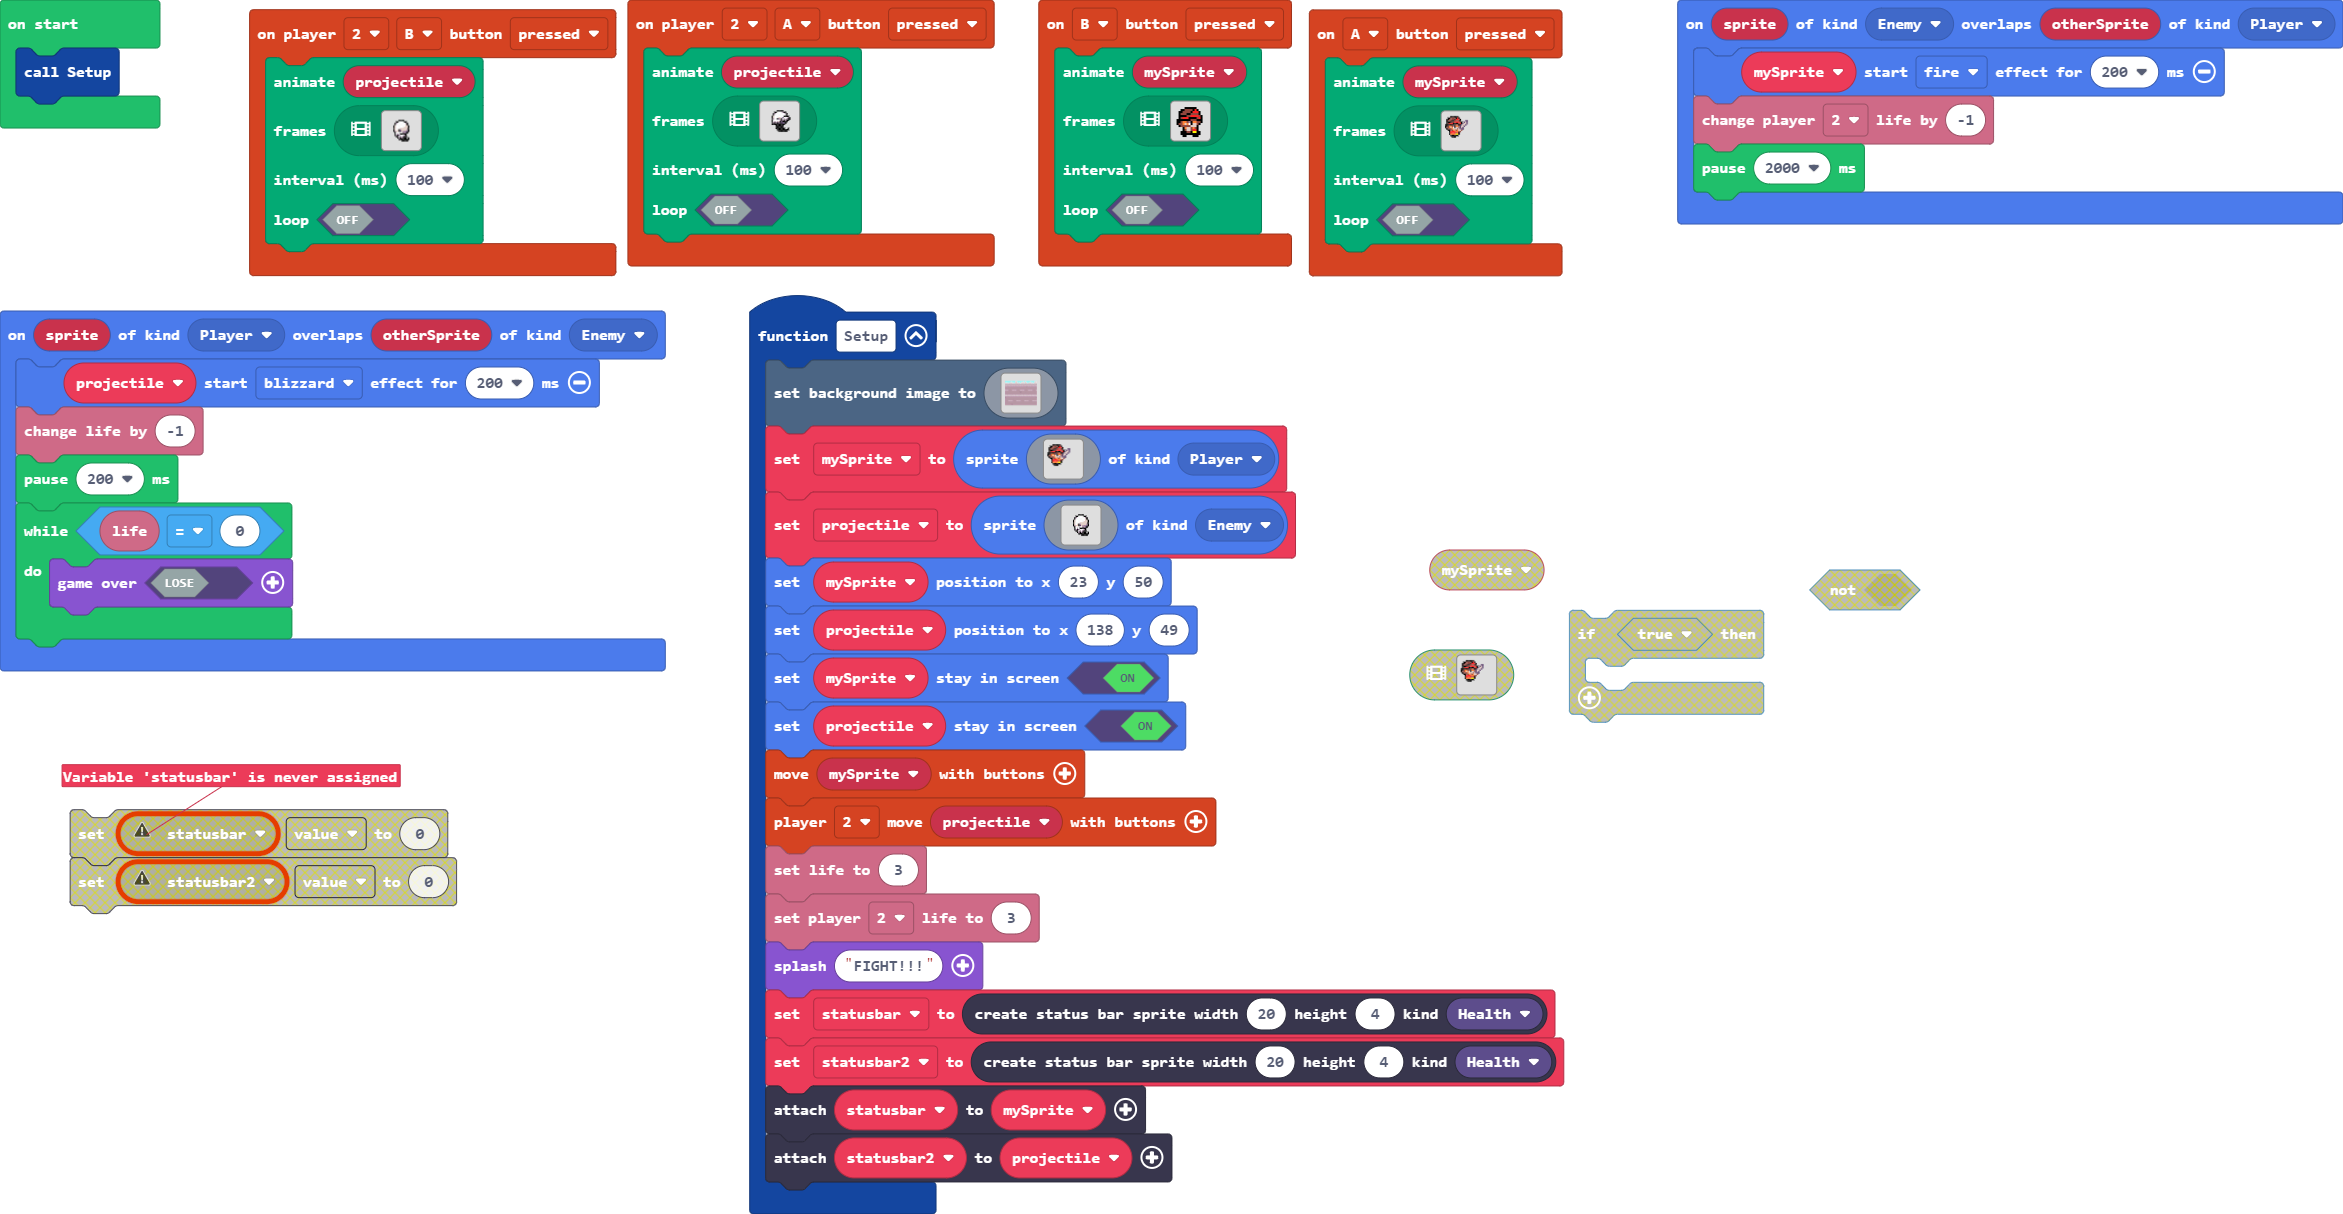
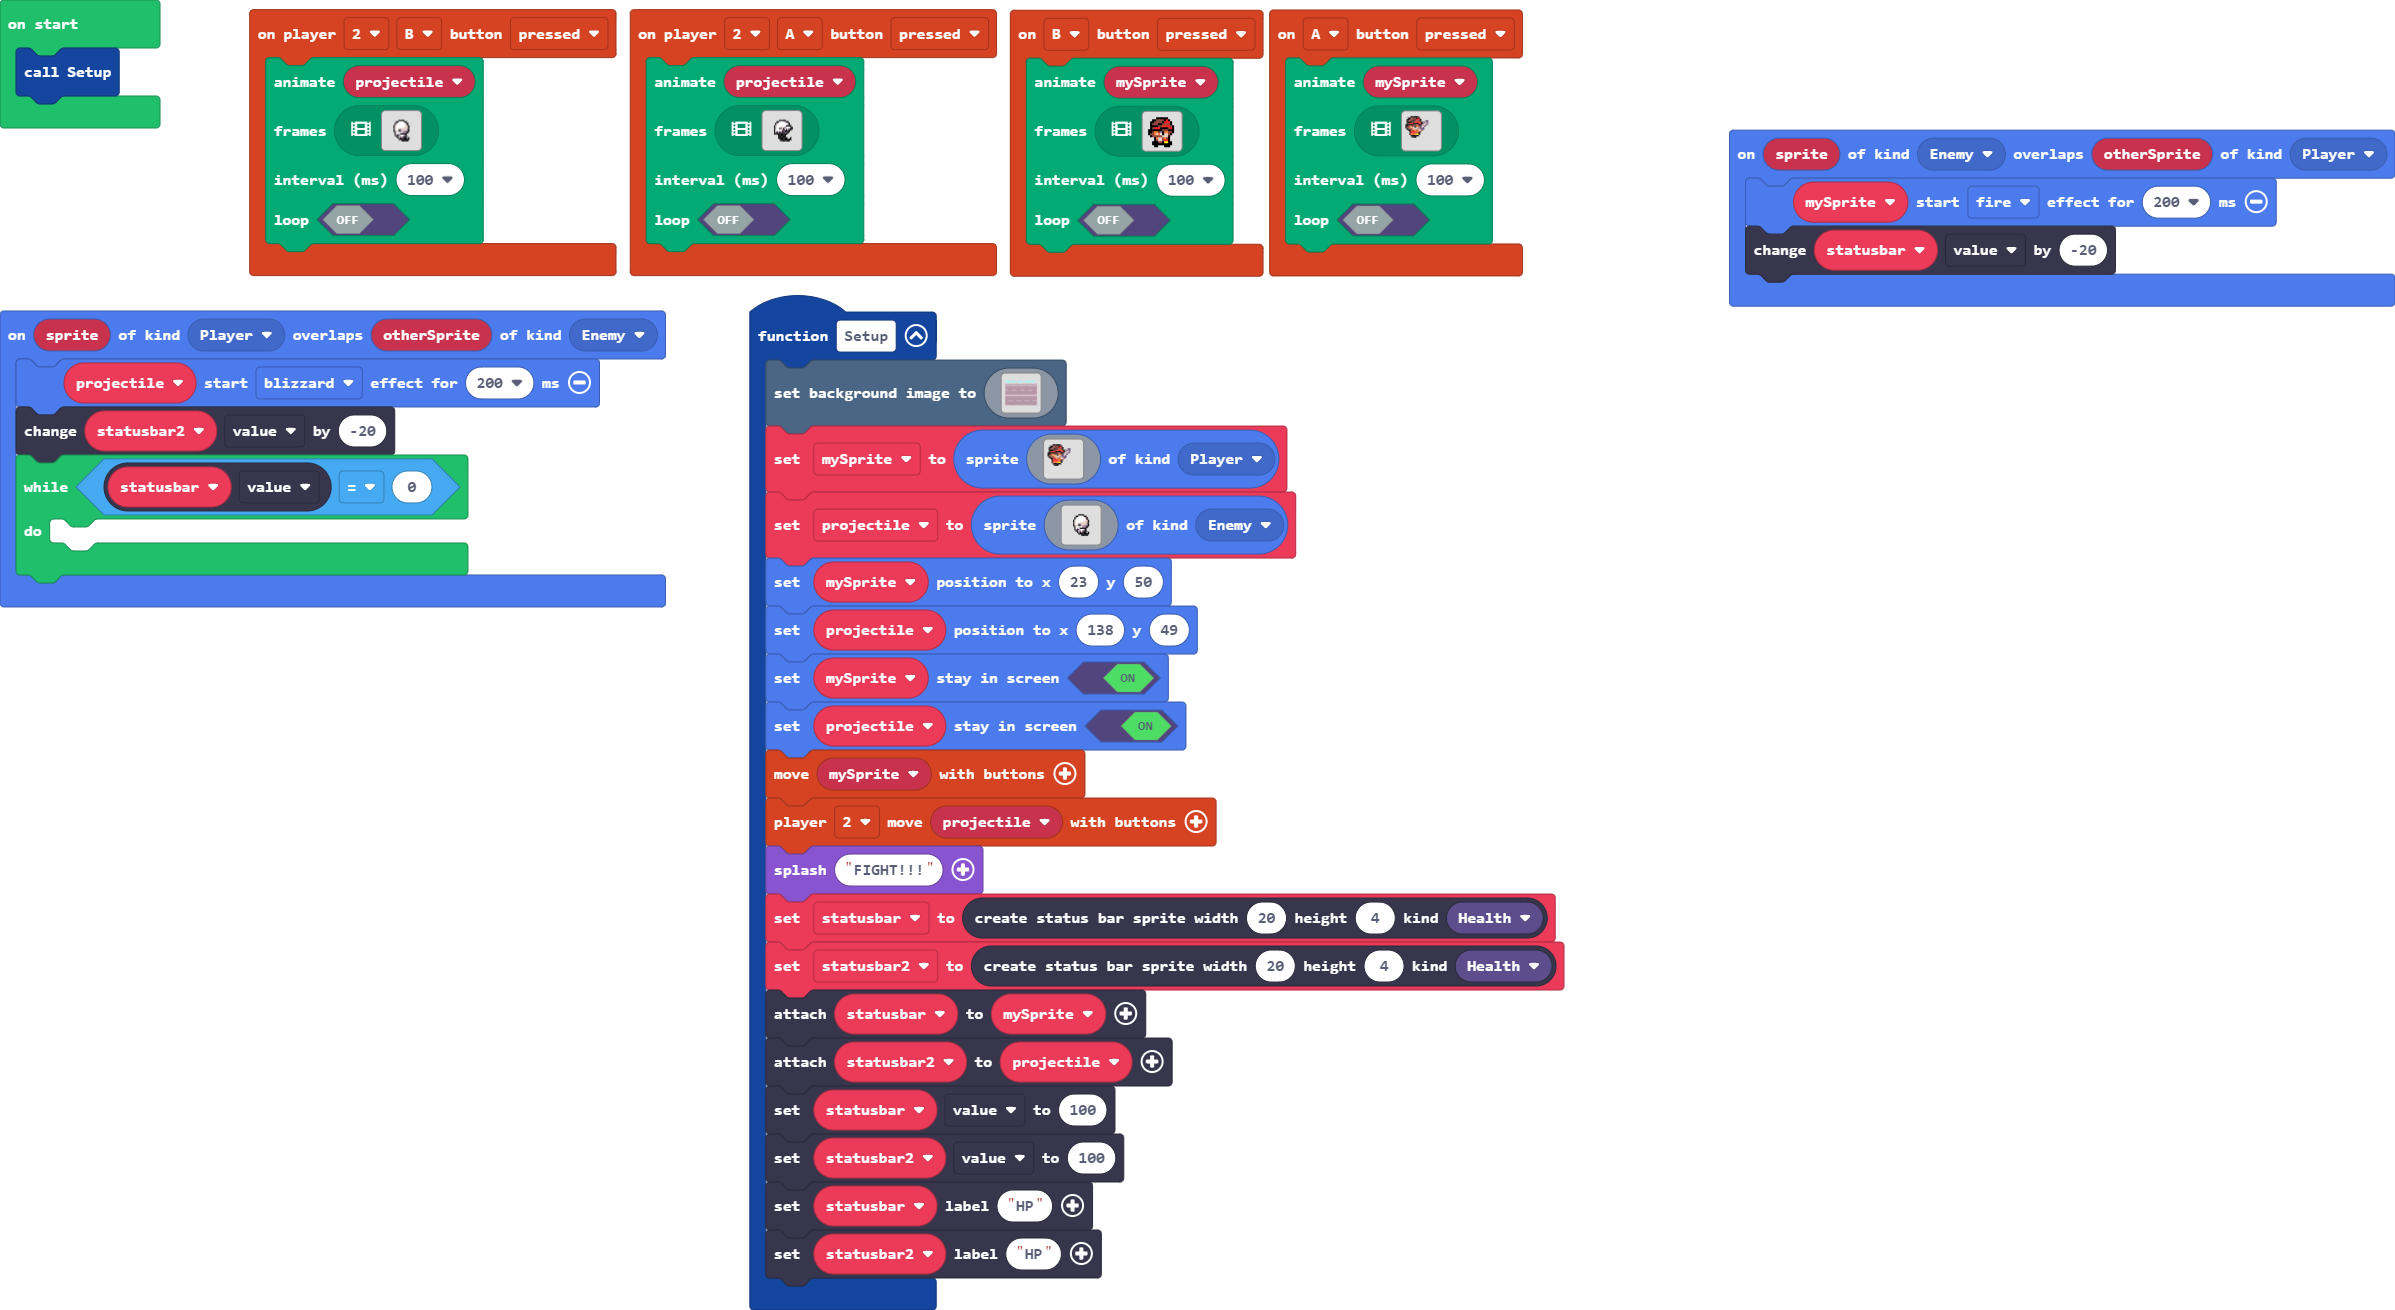
Update main.blocks, main.ts

diff --git a/main.ts b/main.ts
@@ -300,8 +300,7 @@ controller.player2.onButtonEvent(ControllerButton.A, ControllerButtonEvent.Press
 })
 sprites.onOverlap(SpriteKind.Enemy, SpriteKind.Player, function (sprite, otherSprite) {
     mySprite.startEffect(effects.fire, 200)
-    info.player2.changeLifeBy(-1)
-    pause(2000)
+    statusbar.value += -20
 })
 function Setup () {
     scene.setBackgroundImage(img`
@@ -484,20 +483,21 @@ function Setup () {
     projectile.setStayInScreen(true)
     controller.moveSprite(mySprite)
     controller.player2.moveSprite(projectile)
-    info.setLife(3)
-    info.player2.setLife(3)
     game.splash("FIGHT!!!")
     statusbar = statusbars.create(20, 4, StatusBarKind.Health)
     statusbar2 = statusbars.create(20, 4, StatusBarKind.Health)
     statusbar.attachToSprite(mySprite)
     statusbar2.attachToSprite(projectile)
+    statusbar.value = 100
+    statusbar2.value = 100
+    statusbar.setLabel("HP")
+    statusbar2.setLabel("HP")
 }
 sprites.onOverlap(SpriteKind.Player, SpriteKind.Enemy, function (sprite, otherSprite) {
     projectile.startEffect(effects.blizzard, 200)
-    info.changeLifeBy(-1)
-    pause(200)
-    while (info.life() == 0) {
-        game.over(false)
+    statusbar2.value += -20
+    while (statusbar.value == 0) {
+    	
     }
 })
 let statusbar2: StatusBarSprite = null
